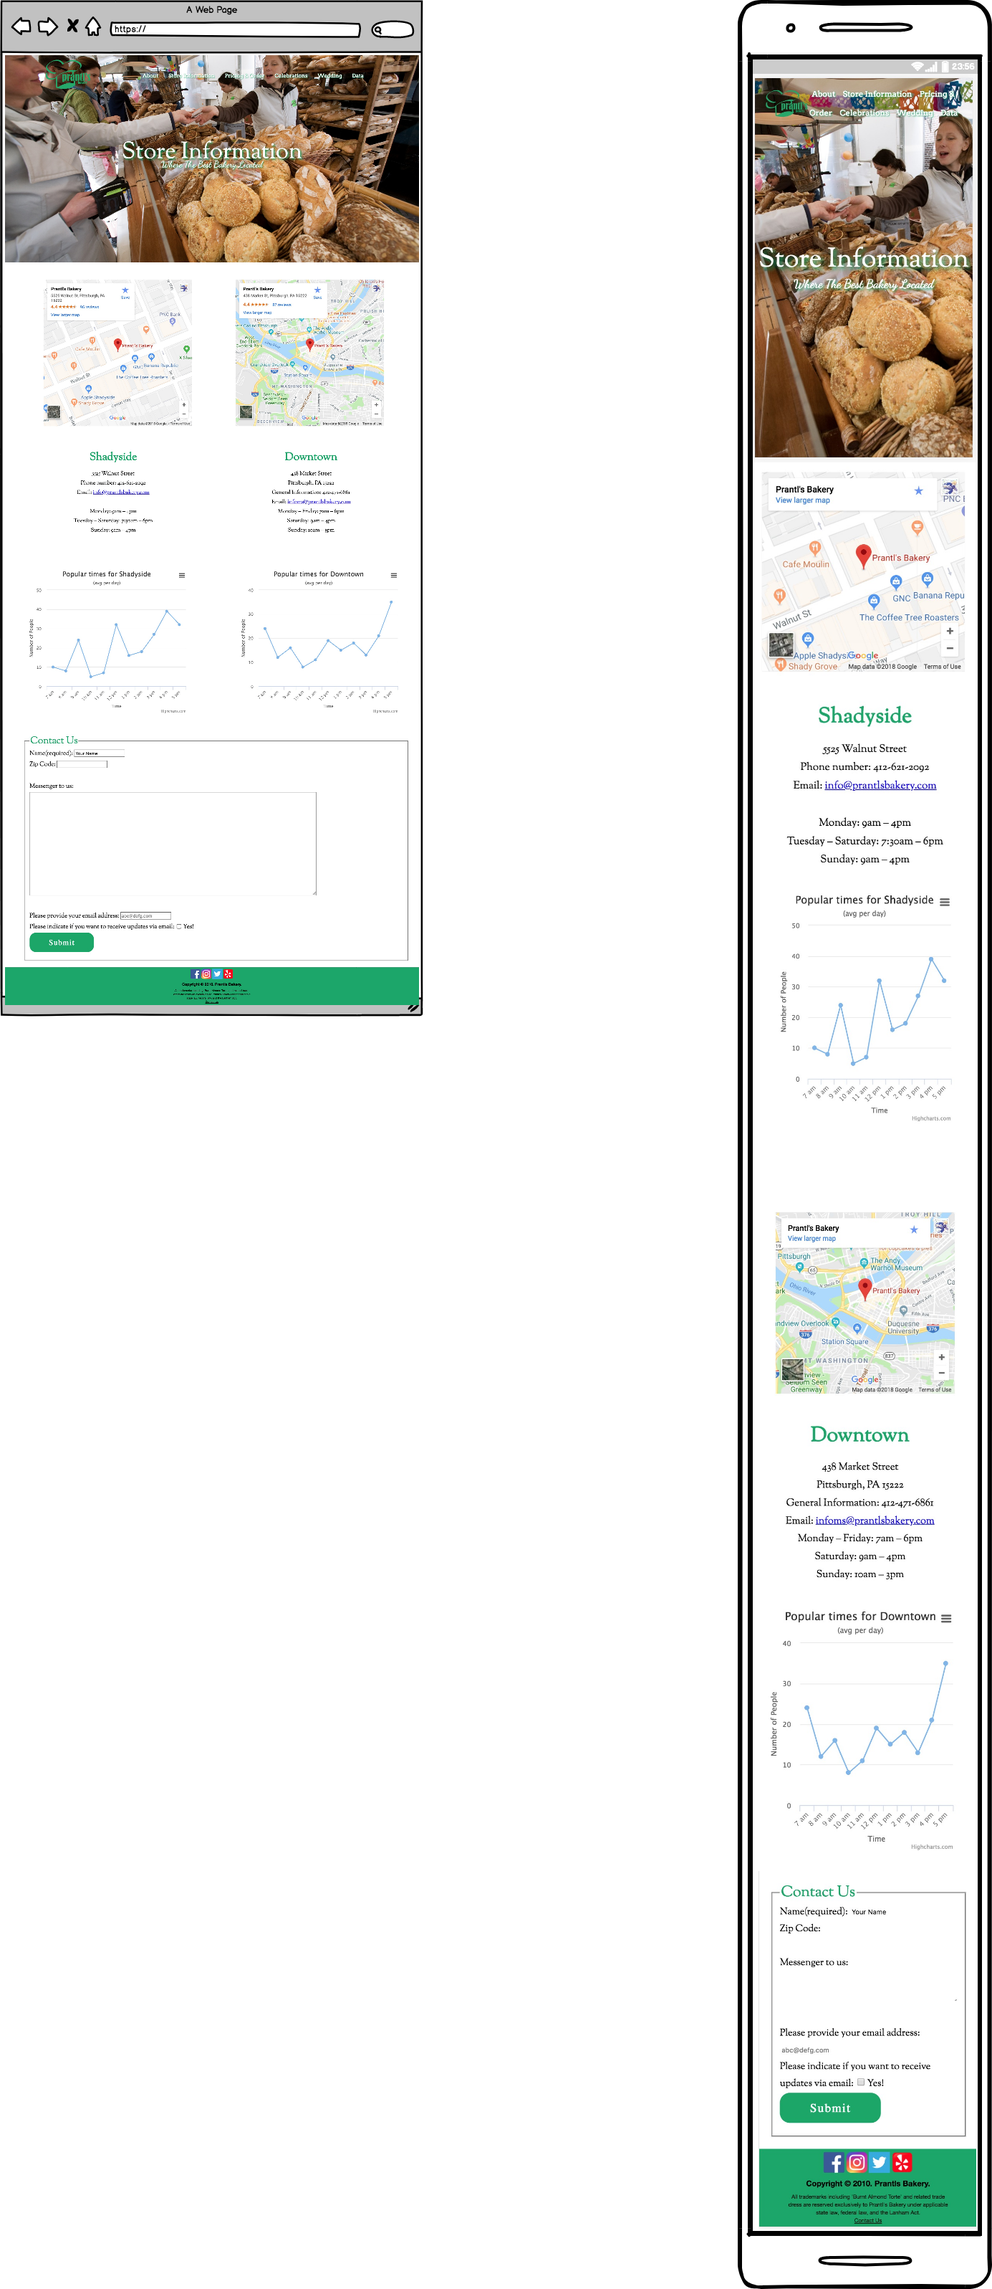
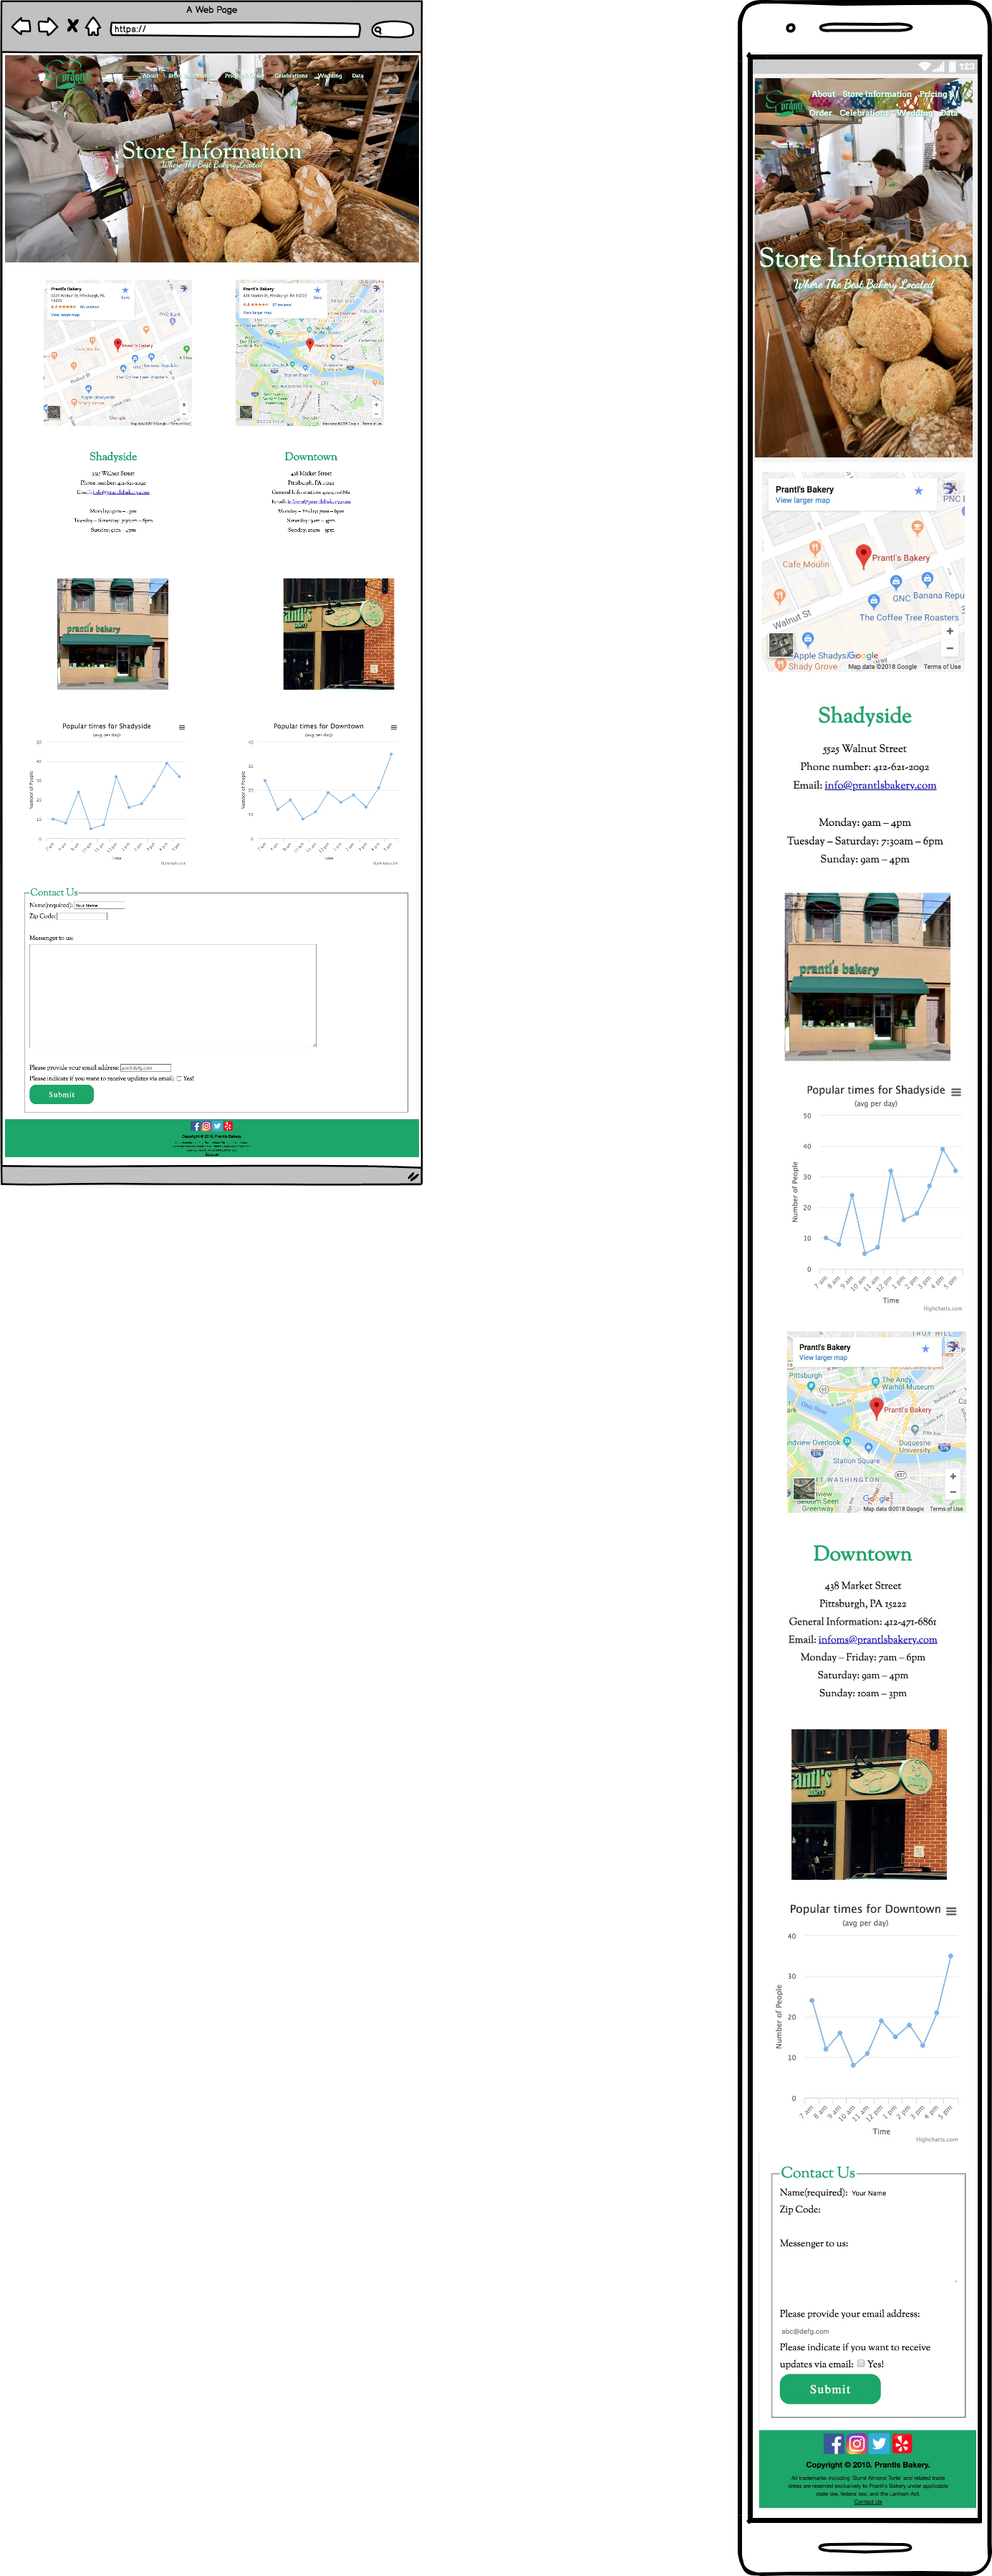
completed version ready to handin

diff --git a/store_info.html b/store_info.html
@@ -182,29 +182,35 @@
 			</div>
 
 			<div id = "info-2">
-				<div id = "shady">
-					<iframe src="https://www.google.com/maps/embed?pb=!1m18!1m12!1m3!1d869.8766750560197!2d-79.93334441611864!3d40.45165486846387!2m3!1f0!2f0!3f0!3m2!1i1024!2i768!4f13.1!3m3!1m2!1s0x8834f211aed70341%3A0x10db72884d553d04!2sPrantl&#39;s+Bakery!5e0!3m2!1sen!2sus!4v1522012293756" width="450" height="450" frameborder="0" style="border:0" allowfullscreen></iframe></br></br>
-					<h1>Shadyside</h1>
-					5525 Walnut Street</br>
-					Phone number: 412-621-2092</br>
-					Email: <a href = "mailto:info@prantlsbakery.com">info@prantlsbakery.com</a></br></br>
-					Monday: 9am – 4pm</br>
-					Tuesday – Saturday: 7:30am – 6pm</br>
-					Sunday: 9am – 4pm</br></br>
-					<div id = "shady-graph"></div></br>
-				</div>
-				<div id = "down">
-					<iframe src="https://www.google.com/maps/embed?pb=!1m18!1m12!1m3!1d24290.43697648538!2d-79.98498130573388!3d40.44639428854566!2m3!1f0!2f0!3f0!3m2!1i1024!2i768!4f13.1!3m3!1m2!1s0x0%3A0x9e8bccef10009784!2sPrantl&#39;s+Bakery!5e0!3m2!1sen!2sus!4v1522012321302" width="450" height="450" frameborder="0" style="border:0" allowfullscreen></iframe></br></br>
-					<h1>Downtown</h1>
-					438 Market Street</br>
-					Pittsburgh, PA 15222</br>
-					General Information: 412-471-6861</br>
-					Email: <a href = "mailto:infoms@prantlsbakery.com">infoms@prantlsbakery.com</a></br>
-					Monday – Friday: 7am – 6pm</br>
-					Saturday: 9am – 4pm</br>
-					Sunday: 10am – 3pm</br></br>
-					<div id = "down-graph"></div></br>
-				</div>
+				<table style="width:100%">
+					<tr>
+						<div id = "shady">
+							<iframe src="https://www.google.com/maps/embed?pb=!1m18!1m12!1m3!1d869.8766750560197!2d-79.93334441611864!3d40.45165486846387!2m3!1f0!2f0!3f0!3m2!1i1024!2i768!4f13.1!3m3!1m2!1s0x8834f211aed70341%3A0x10db72884d553d04!2sPrantl&#39;s+Bakery!5e0!3m2!1sen!2sus!4v1522012293756" width="450" height="450" frameborder="0" style="border:0" allowfullscreen></iframe></br></br>
+							<h1>Shadyside</h1>
+							5525 Walnut Street</br>
+							Phone number: 412-621-2092</br>
+							Email: <a href = "mailto:info@prantlsbakery.com">info@prantlsbakery.com</a></br></br>
+							Monday: 9am – 4pm</br>
+							Tuesday – Saturday: 7:30am – 6pm</br>
+							Sunday: 9am – 4pm</br></br>
+							<img src = "images/info-shady.jpg" alt = "shady image">
+							<div id = "shady-graph"></div></br>
+						</div>
+						<div id = "down">
+							<iframe src="https://www.google.com/maps/embed?pb=!1m18!1m12!1m3!1d24290.43697648538!2d-79.98498130573388!3d40.44639428854566!2m3!1f0!2f0!3f0!3m2!1i1024!2i768!4f13.1!3m3!1m2!1s0x0%3A0x9e8bccef10009784!2sPrantl&#39;s+Bakery!5e0!3m2!1sen!2sus!4v1522012321302" width="450" height="450" frameborder="0" style="border:0" allowfullscreen></iframe></br></br>
+							<h1>Downtown</h1>
+							438 Market Street</br>
+							Pittsburgh, PA 15222</br>
+							General Information: 412-471-6861</br>
+							Email: <a href = "mailto:infoms@prantlsbakery.com">infoms@prantlsbakery.com</a></br>
+							Monday – Friday: 7am – 6pm</br>
+							Saturday: 9am – 4pm</br>
+							Sunday: 10am – 3pm</br></br>
+							<img src = "images/info-down.jpg" alt = "down image">
+							<div id = "down-graph"></div></br>
+						</div>
+					</tr>
+				</table>
 			</div>
 
 			<div id = "info-3">

diff --git a/wedding.html b/wedding.html
@@ -129,7 +129,14 @@
 				<img src = "images/wedding-6.jpg">
 				<div id = "information_text_left">
 					<div id = "information_text_left_title">Other delicacies</div>
-					<div id = "information_text_left_text">Our wedding cakes are really just the beginning. Lots of folks opt for Individual desserts (3” mini-cakes, cupcakes, etc.) and of course there’s always room in the celebration for Cookie Trays, Monogrammed Petit Fours, Junior Pastry Trays, Grooms’ Cakes, Shower Cakes, Monogrammed Cookies, Wedding Challah, Breakfast Trays, etc.</div>
+					<div id = "information_text_left_text"> We offer a lot of Delicacies
+						<ul>
+							<li>Breakfast</li>
+							<li>Donuts</li>
+							<li>Cakes</li>
+							<li>And More</li>
+						</ul>
+					</div>
 				</div>
 			</div>
 

diff --git a/css/styles.css b/css/styles.css
@@ -225,6 +225,12 @@ body {
 	margin: 0px auto;
 }
 
+#info-2 img{
+	width:400px;
+	height:400px;
+	object-fit: cover;
+}
+
 #info-2 #shady{
 	font-family: 'Sorts Mill Goudy', serif;
 	width: 40%;

diff --git a/css/stylesmiddle.css b/css/stylesmiddle.css
@@ -179,6 +179,11 @@
 		height: 90vw;
 	}
 
+	#info-2 img{
+		width: 90vw;
+		height:90vw;
+	}
+
 	#info-2 #down {
 		font-family: 'Sorts Mill Goudy', serif;
 		width: 90vw;

diff --git a/css/stylessmall.css b/css/stylessmall.css
@@ -198,6 +198,12 @@
 		height: 90vw;
 	}
 
+	#info-2 img{
+		width: 90vw;
+		height: 90vw;
+	}
+
+
 	#info-3{
 		width: 90vw;
 		margin: 0px auto;
